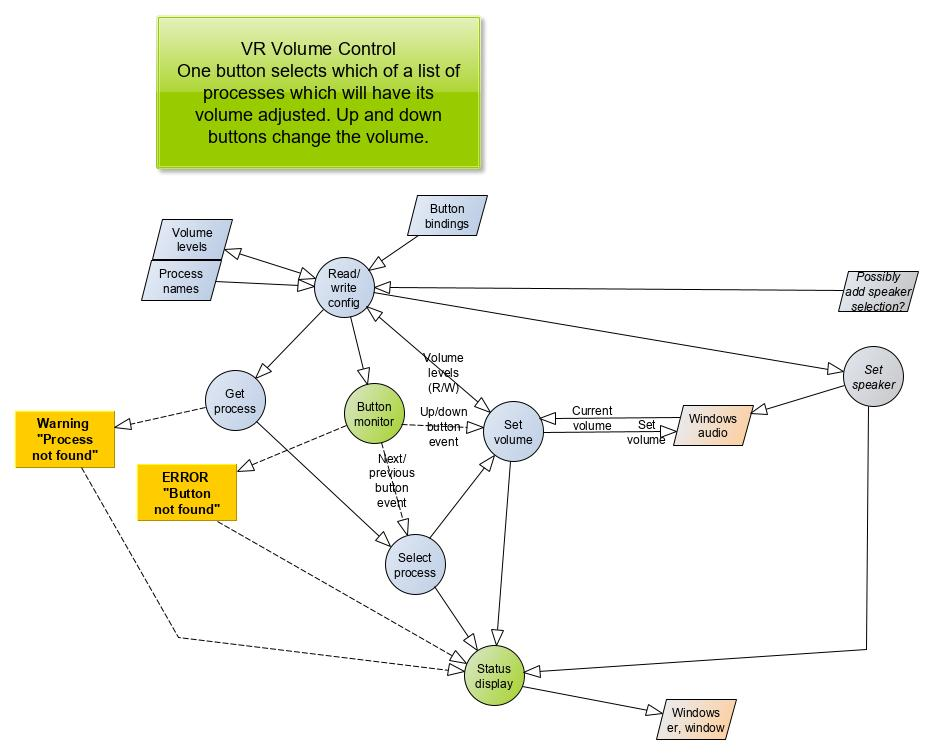
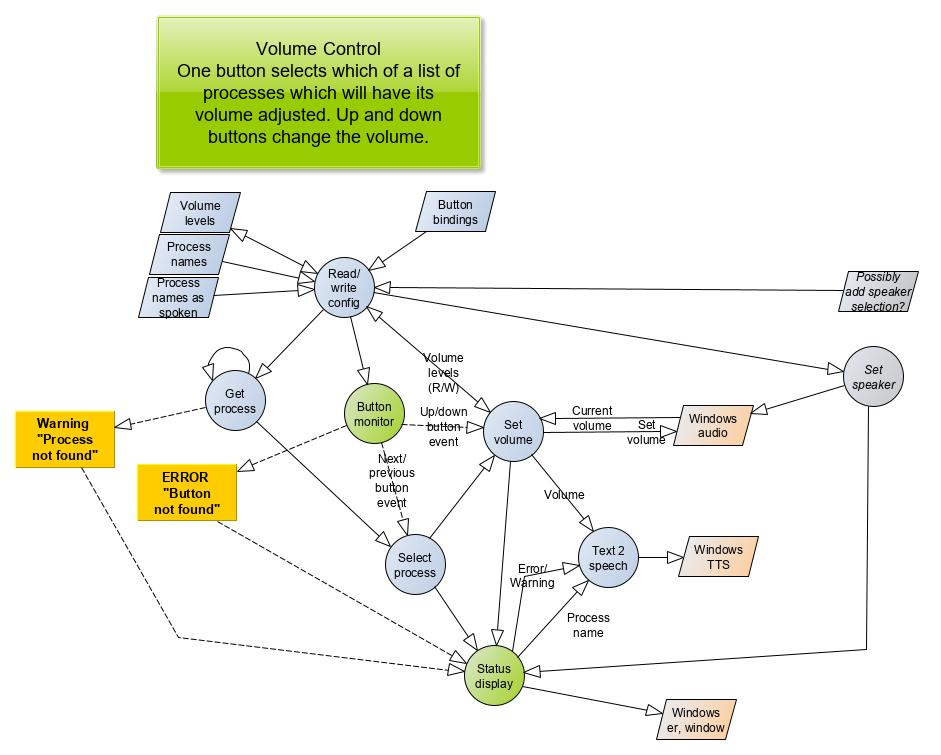
text2speech turned into a lib (More reg files to enable voices)

diff --git a/text2speech.py b/text2speech.py
@@ -1,36 +1,84 @@
+""" Text to speech using one of the standard Windows voices """
 import pyttsx3
-engine = pyttsx3.init('sapi5') # object creation
 
-""" RATE"""
-rate = engine.getProperty('rate')   # getting details of current speaking rate
-print (rate)                        #printing current voice rate
-engine.setProperty('rate', 150)     # setting up new voice rate
+class Text2Speech:
+    """ Text to speech using one of the standard Windows voices """
+    def __init__(self, verbose: bool = False):
+        self.engine = pyttsx3.init('sapi5') # object creation
+        self.verbose = verbose
 
+    def set_rate(self, rate: int = 150):
+        """ Speaking rate. Default is 200 """
+        self.engine.setProperty('rate', rate)       # setting up new voice rate
+        # (Takes a little while before property can be read back)
 
-"""VOLUME"""
-volume = engine.getProperty('volume')   #getting to know current volume level (min=0 and max=1)
-print (volume)                          #printing current volume level
-engine.setProperty('volume',1.0)    # setting up volume level  between 0 and 1
+    def set_volume(self, volume: float = 1.0):
+        """ Volume. 0.0 to 1.0 """
+        if volume > 1.0:
+            volume = 1.0
+        if volume < 0.0:
+            volume = 0.0
+        self.engine.setProperty('volume', volume)    # setting up volume level  between 0 and 1
+        # (Takes a little while before property can be read back)
 
-"""VOICE"""
-voices = engine.getProperty('voices')       #getting details of current voice
-for voice in voices:
-    print(voice.name)
-    # Microsoft Hazel Desktop - English (Great Britain)
-    # Microsoft George - English (United Kingdom)      after registry hack, see
-    #                                       Documentation\GeorgeVoiceEnable.reg
-    #  https://www.ghacks.net/2018/08/11/unlock-all-windows-10-tts-voices-system-wide-to-get-more-of-them/
-    # Microsoft Zira Desktop - English (United States)
-engine.setProperty('voice', voices[0].id)  #changing index, changes voices. 0 for Hazel
-#engine.setProperty('voice', voices[1].id)  #changing index, changes voices. 1 for George
-#engine.setProperty('voice', voices[2].id)   #changing index, changes voices. 1 for Zira
+    def select_voice(self, voice_name: str = 'Hazel'):
+        """
+        Set the voice to be used
+        (Use Documentation/<name>VoiceEnable.reg
+        to add the other standard UK voices)
+        """
+        voices = self.engine.getProperty('voices')  #getting details of current voice
+        for voice in voices:
+            if voice_name in voice.name:
+                # Microsoft Hazel Desktop - English (Great Britain)
+                # Microsoft George - English (United Kingdom)      after registry hack, see
+                #                                       Documentation\GeorgeVoiceEnable.reg
+                #pylint: disable=line-too-long
+                #  https://www.ghacks.net/2018/08/11/unlock-all-windows-10-tts-voices-system-wide-to-get-more-of-them/
+                # Microsoft Zira Desktop - English (United States)
+                self.engine.setProperty('voice', voice.id)
+                if self.verbose:
+                    self.say(f'Voice set to, {voice_name:s}.')
+                return
+        # default to voice 0 - Hazel
+        self.engine.setProperty('voice', voices[0].id)
+        if self.verbose:
+            # Extract the voice name from "Microsoft Hazel Desktop - English (Great Britain)"
+            voice_name = voices[0].name.split()[1]
+            self.say(f'Voice set to default, {voice_name:s}.')
 
-#engine.say("Hello World!")
-rate = engine.getProperty('rate') # always reports 200 even though rate changes
-#engine.say('My current speaking rate is ' + str(rate))
+    def get_volume(self):
+        """ Volume """
+        _vol = self.engine.getProperty('volume')
+        if self.verbose:
+            self.say(f'Volume is, {_vol:.1f}.')
 
-for program in ['r Factor', 'Crew Chief', 'Discord', 'Gear shift', '10%', '50%', 'Full volume', 'Seven Smiles', 'Wrighty']:
-    engine.say(program)
-engine.runAndWait()
-engine.stop()
+    def get_rate(self):
+        """ Speech rate """
+        _rate = self.engine.getProperty('rate')
+        if self.verbose:
+            self.say(f'Speech rate is, {_rate:d}.')
 
+    def say(self, phrase: str):
+        """
+        Say the phrase.
+        . and , introduce a pause.
+        """
+        self.engine.say(phrase)
+        self.engine.runAndWait()
+
+def main():
+    """ demo """
+    tts_o = Text2Speech(verbose=True)
+    tts_o.set_rate(180)
+    tts_o.set_volume(0.9)
+    tts_o.select_voice('George')
+    tts_o.get_volume()
+    tts_o.get_rate()
+
+    for phrase in ['r Factor', 'Crew Chief', 'Discord', 'Gear shift', \
+                    '10%', '50%', 'Full volume', 'Seven Smiles', 'Wrighty']:
+        tts_o.say(phrase)
+
+if __name__ == "__main__":
+    main()
